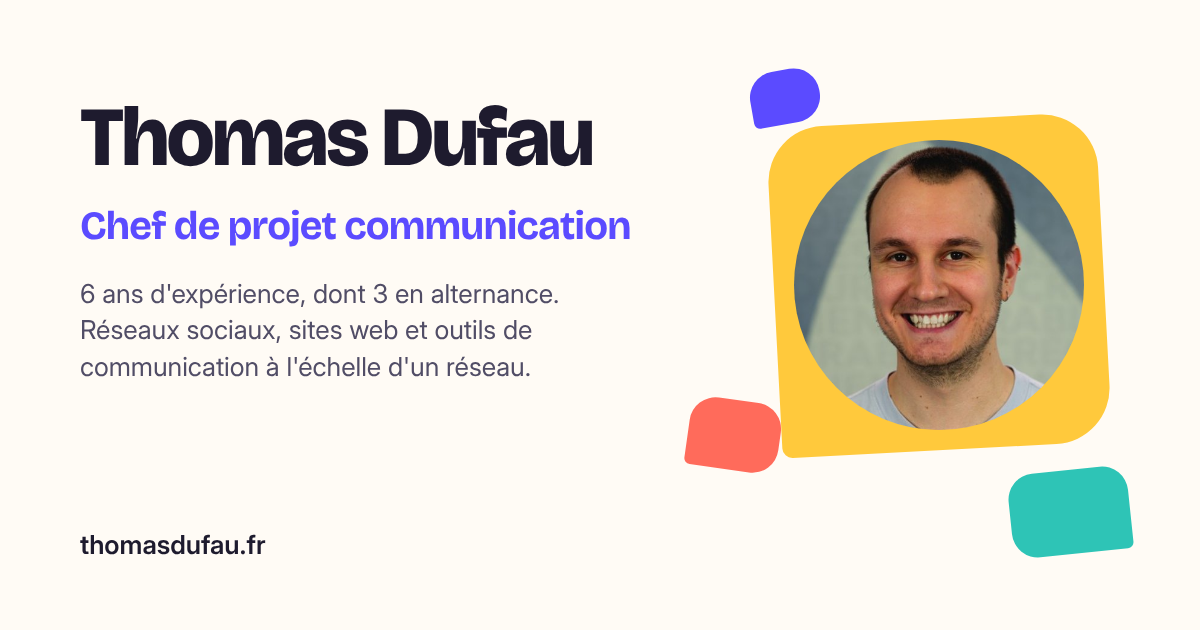
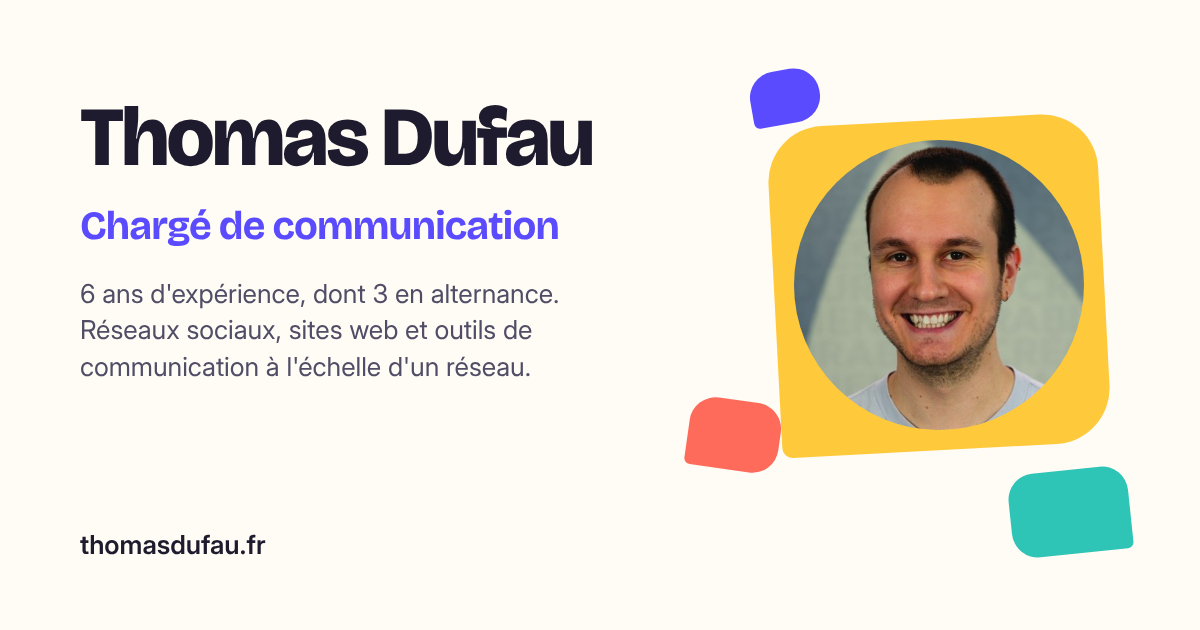
Textes accueil, à propos et contact ; photo animée ; aperçu harmonisé
- Suppression de la phrase d'intro de l'accueil
- À propos : nouvelle phrase de fin (nouveau challenge)
- Contact : "Contactons-nous !" et intitulés de poste
- ADENES Group : "Alternance puis titularisation"
- Photo : même flottement et rotation au scroll que les bulles
- Image d'aperçu : "Chargé de communication"

Claude-Session: https://claude.ai/code/session_01G5Qb4QVUWV7zQELyfHc2S5

Changed region(s): [[0.0925, 0.3317, 0.5242, 0.3921]]

diff --git a/index.html b/index.html
@@ -16,7 +16,7 @@
   <meta property="og:image" content="https://thomasdufau.fr/images/apercu-partage.png">
   <meta property="og:image:width" content="1200">
   <meta property="og:image:height" content="630">
-  <meta property="og:image:alt" content="Thomas Dufau, chef de projet communication">
+  <meta property="og:image:alt" content="Thomas Dufau, chargé de communication">
   <meta name="twitter:card" content="summary_large_image">
   <link rel="canonical" href="https://thomasdufau.fr/">
 
@@ -64,7 +64,6 @@
     <section id="accueil" class="hero">
       <div class="wrap hero-inner">
         <div class="hero-text">
-          <p class="hero-intro">Bonjour, je suis Thomas Dufau, chargé de communication près de Toulouse.</p>
           <h1>Je rends la communication d'une entreprise claire, cohérente et visible.</h1>
           <p class="hero-sub">6 ans d'expérience, dont 3 en alternance. Aujourd'hui chez ADENES Group, je participe à faire vivre la communication d'un réseau de 160 agences, de la stratégie jusqu'au terrain.</p>
           <div class="hero-actions">
@@ -92,7 +91,7 @@
           <h2>À propos</h2>
           <p>Je suis chargé de communication depuis 2020, <strong>d'abord en alternance puis en CDI</strong>. J'aime les sujets où il faut mettre de l'ordre : <strong>une marque présente à plein d'endroits</strong>, des équipes qui ont besoin d'<strong>outils simples</strong>, des messages qui doivent rester <strong>cohérents d'une agence à l'autre</strong>.</p>
           <p>Chez <strong>ADENES Group</strong>, je pilote <strong>les réseaux sociaux, les sites web et les fiches Google</strong> du groupe, je déploie les outils qui aident les salariés à bien communiquer (charte graphique, signatures mail, boutique de goodies) et j'accompagne le <strong>service recrutement</strong>.</p>
-          <p>Je cherche aujourd'hui <strong>un CDI de chargé ou de responsable de communication</strong> dans la région toulousaine.</p>
+          <p>Je recherche <strong>un nouveau challenge</strong> pour me permettre d'évoluer tout en découvrant de nouveaux horizons.</p>
         </div>
       </div>
     </section>
@@ -166,7 +165,7 @@
               <li>
                 <p class="timeline-date">Depuis sept. 2022</p>
                 <h4>Chargé de communication</h4>
-                <p class="timeline-org">ADENES Group</p>
+                <p class="timeline-org">ADENES Group · Alternance puis titularisation</p>
                 <ul>
                   <li>Animation de 8 pages LinkedIn, environ +10 % d'abonnés par an et par page</li>
                   <li>Gestion de 5 sites web et de 100 fiches Google</li>
@@ -178,7 +177,7 @@
               <li>
                 <p class="timeline-date">Sept. 2021 – août 2022</p>
                 <h4>Chargé de communication et marketing</h4>
-                <p class="timeline-org">Innovative Community · alternance</p>
+                <p class="timeline-org">Innovative Community · Alternance</p>
                 <ul>
                   <li>Lancement d'une offre de consulting en innovation</li>
                   <li>Community management et animation du site web</li>
@@ -188,7 +187,7 @@
               <li>
                 <p class="timeline-date">Sept. 2020 – août 2021</p>
                 <h4>Assistant communication et marketing</h4>
-                <p class="timeline-org">ATI Consult · alternance</p>
+                <p class="timeline-org">ATI Consult · Alternance</p>
                 <ul>
                   <li>Lancement d'un site de vente de formations pour ingénieurs</li>
                   <li>Community management et animation du site web</li>
@@ -198,7 +197,7 @@
               <li>
                 <p class="timeline-date">Avr. – mai 2019</p>
                 <h4>Assistant administratif et communication</h4>
-                <p class="timeline-org">Mairie du Passage d'Agen · stage</p>
+                <p class="timeline-org">Mairie du Passage d'Agen · Stage</p>
                 <ul>
                   <li>Organisation d'un festival de musique</li>
                   <li>Pilotage du village associatif (25 associations)</li>
@@ -236,8 +235,8 @@
     <section id="contact" class="section contact">
       <div class="wrap contact-inner">
         <div class="contact-text">
-          <h2>Parlons de votre poste</h2>
-          <p>Vous recrutez un chargé ou un responsable de communication ? Écrivez-moi, je vous réponds sous 48 heures.</p>
+          <h2>Contactons-nous !</h2>
+          <p>Vous recrutez un Chargé de communication ou un Responsable Communication ? Écrivez-moi, je vous réponds sous 48 heures.</p>
           <div class="contact-links">
             <a class="btn btn-sun" href="https://fr.linkedin.com/in/thomasdufau" target="_blank" rel="noopener">Mon profil LinkedIn</a>
             <a class="btn btn-ghost-light" href="cv/CV_Thomas_Dufau.pdf" download>Télécharger mon CV (PDF)</a>

diff --git a/script.js b/script.js
@@ -16,23 +16,38 @@ menu.querySelectorAll('a').forEach((lien) => {
   });
 });
 
-// ===== Bulles de l'accueil : rotation au scroll =====
-// Plus on descend, plus les bulles tournent (0,04 degré par pixel scrollé).
+// ===== Rotation au scroll : bulles de l'accueil et photo =====
 // Désactivé si la personne a demandé à réduire les animations sur son appareil.
 const bulles = document.querySelector('.bubbles');
+const photo = document.querySelector('.about-photo');
 const reduireAnimations = window.matchMedia('(prefers-reduced-motion: reduce)').matches;
 
-if (bulles && !reduireAnimations) {
+function tournerAuScroll() {
+  // Bulles : plus on descend, plus elles tournent (0,04 degré par pixel scrollé)
+  if (bulles) {
+    const angle = Math.min(window.scrollY, 1200) * 0.04;
+    bulles.style.setProperty('--scroll-rotation', angle + 'deg');
+  }
+  // Photo : elle tourne pendant qu'elle traverse l'écran et revient droite au centre
+  if (photo) {
+    const zone = photo.getBoundingClientRect();
+    const ecart = zone.top + zone.height / 2 - window.innerHeight / 2;
+    const angle = Math.max(-15, Math.min(15, ecart * -0.03));
+    photo.style.setProperty('--scroll-rotation', angle + 'deg');
+  }
+}
+
+if (!reduireAnimations) {
   let enAttente = false;
   window.addEventListener('scroll', () => {
     if (enAttente) return;
     enAttente = true;
     requestAnimationFrame(() => {
-      const angle = Math.min(window.scrollY, 1200) * 0.04;
-      bulles.style.setProperty('--scroll-rotation', angle + 'deg');
+      tournerAuScroll();
       enAttente = false;
     });
   }, { passive: true });
+  tournerAuScroll();
 }
 
 // ===== Formulaire de contact (envoi par email via Web3Forms, sans quitter la page) =====

diff --git a/style.css b/style.css
@@ -175,11 +175,6 @@ img { max-width: 100%; display: block; }
   align-items: center;
 }
 
-.hero-intro {
-  font-weight: 500;
-  color: var(--encre-douce);
-}
-
 .hero h1 {
   font-size: clamp(2.6rem, 6vw, 4.5rem);
   font-weight: 800;
@@ -270,18 +265,22 @@ img { max-width: 100%; display: block; }
 }
 
 .about-photo {
+  /* Même animation que les bulles de l'accueil : flottement + rotation au scroll */
+  --angle: -2deg;
+  --decalage: 0rem;
   aspect-ratio: 1;
   padding: 18px;
   background: var(--soleil);
   border-radius: 40px 40px 40px 8px; /* forme de bulle, comme dans l'accueil */
-  transform: rotate(-2deg);
+  rotate: calc(var(--angle) + var(--scroll-rotation, 0deg));
+  animation: float 5s ease-in-out infinite alternate;
 }
 .about-photo img {
   width: 100%;
   height: 100%;
   object-fit: cover;
   border-radius: 50%;
-  transform: rotate(2deg);
+  rotate: 2deg;
 }
 
 .about-text { max-width: 38rem; }
@@ -531,5 +530,5 @@ img { max-width: 100%; display: block; }
 /* Respect des préférences « réduire les animations » */
 @media (prefers-reduced-motion: reduce) {
   html { scroll-behavior: auto; }
-  .bubble { animation: none; rotate: var(--angle); }
+  .bubble, .about-photo { animation: none; rotate: var(--angle); }
 }
